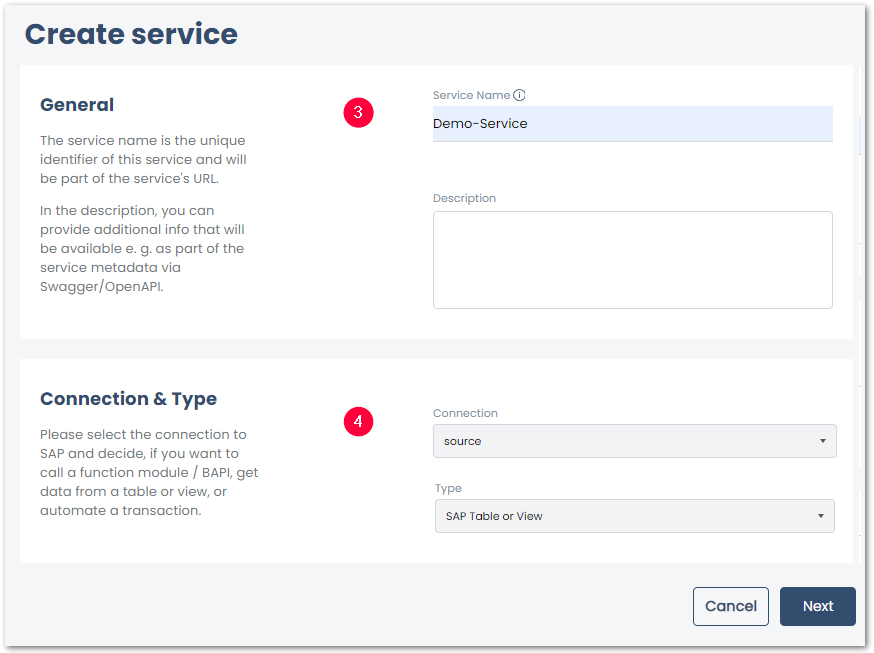
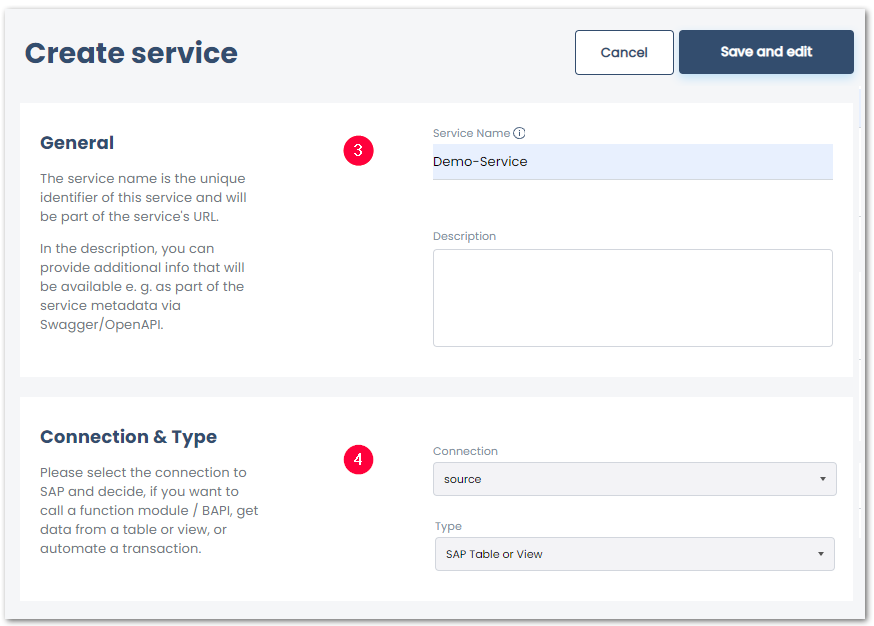
table, server, deutsche Version

diff --git a/content/_de/yunio/table-and-views.md b/content/_de/yunio/table-and-views.md
@@ -1,43 +1,49 @@
 ---
-ref: yunio-table-01
+ref: yunio-18
 layout: page
-title: Eine Table Extraktion definieren
-description: Tabellen und Felder
+title: SAP Tabelle oder Ansicht
+description: Table
 product: yunio
-parent: table
+parent: yunio
+childidentifier: table
 permalink: /:collection/:path
-weight: 1
+weight: 15
 lang: de_DE
-old_url: /Xtract-Universal-DE/default.aspx?pageid=where-bedingung
 progressstate: 5
 ---
-Dieser Abschnitt zeigt, wie Sie die *SAP Table and Views* Komponente verwenden.
 
-### Eine Tabelle finden
 
-1. Wenn Sie einen neuen *Service* anlegen, wählen Sie *SAP Table and Views* als Extraktionstyp aus und klciken Sie **[Next]**, um das *Search SAP Table or View* Menü zu öffnen.
-2. Geben Sie den Namen einer Tabelle oder Ansicht im Feld **Search by name** (1) ein oder suchen Sie nach einer Tabellenbeschreibung. Verwenden Sie Wildcards ( * ), falls notwenid. <br>
+Der folgende Abschnitt beschreibt die Anwendung der *SAP Table and Views* Komponente.
+
+### Eine SAP Tabelle oder Ansicht finden
+
+1. Wenn Sie einen neuen *Service* anlegen, wählen Sie *SAP Table and Views* als Extraktionstyp aus und klicken Sie **[Save and edit]**, um das *Search SAP Table or View* Menü zu öffnen.
+2. Geben Sie den Namen einer Tabelle oder Ansicht in das Feld **Search by name** (1) ein oder suchen Sie nach einer Tabellenbeschreibung. Verwenden Sie Wildcards ( * ), falls notwendig. <br>
 ![SAP-Table-or-Views](/img/content/yunio/Search-table-view.png){:class="img-responsive" width="750px"}
 3. Klicken Sie auf **[Search]** (2), um alle Suchergebnisse anzuzeigen.
-4. Wählen Sie eine Quelle aus (3). Das Hauptmenü *SAP Table and Views* öffnet sich automatisch.<br>
+4. Wählen Sie eine Quelldatei aus der Liste verfügbarer Suchergebnisse aus (3). 
+Die Extraktionseinstellungen für *SAP Tabelle und Ansichten* öffnet sich automatisch.<br>
 
 Das *SAP Table and Views* Menü ist in folgende Unterabschnitte unterteilt:
-- [Table or View](#tabelle-oder-ansicht) (4)
-- [Advanced Settings](#fortgeschrittene-einstellungen) (5)
-- [Output Columns](#ausgabespalten) (6)
-- [WHERE-Clause](#where-bedingung) (7)
 
-![SAP-Table-or-Views](/img/content/yunio/table-settings.png){:class="img-responsive" width="750px" }
+![yunIO-table](/img/content/yunio/table-settings.png){:class="img-responsive" width="750px"}
+
+- [Table or View](#tabelle-oder-ansicht) (4) zeigt den Namen und die Beschreibung der gewählten SAP Tabelle oder Ansicht an.
+- [Advanced Settings](#fortgeschrittene-einstellungen) (5) definieren, wie Daten aus SAp extrahiert werden.
+- [Output Columns](#ausgabespalten) (6) definieren, welche Spalten extrahiert werden.
+- [WHERE-Clause](#where-bedingung) (7) ermöglicht das Filtern von Daten.
 
 ### Table or View
+
 Der Name und die Beschreibung der gewählten Tabelle oder Ansicht wird im Abschnitt **Table or View** angezeigt.<br>
-Um eine andere Quelldatei auszuwählen, klicken Sie auf **Select** (4) in der oberen rechten Ecke des Abschnitts.
+Um eine andere Quelldatei auszuwählen, klicken Sie auf **Select** in der oberen rechten Ecke des Abschnitts.
 
 ### Advanced Settings
 
 ### Function Name
 Bezeichnet den Namen des verwendeten Funktionsbausteins für die Datenextraktion. Dieses Feld wird automatisch befüllt in Abhängigkeit davon, welche Funktionsbausteine auf Ihrem SAP System vorhanden sind.
-Folgende Funktionsbausteine können zur Extraktion von Tabellen verwendet werden: <br>
+F
+olgende Funktionsbausteine können zur Extraktion von Tabellen verwendet werden:
 
 - RFC_READ_TABLE (TAB512)
 - /BODS/RFC_READ_TABLE  (TAB2048)
@@ -50,7 +56,7 @@ Folgende Funktionsbausteine können zur Extraktion von Tabellen verwendet werden
 **Warnung! Duplikate in der Zielumgebung!** <br>
 Die SAP-Standardbausteine für Tabellenextraktion besitzen keine Pointer-Logik in Tabellenfeldern. 
 Das führt bei großen Tabellen zu schlechter Performance und ggf. zu Dublikaten.
-Wir empfehlen daher die Verwendung des Funktionsbausteins [Z_THEO_READ_TABLE](../sap-customizing) von Theobald Software. 
+Wir empfehlen daher die Verwendung des Funktionsbausteins [Z_THEO_READ_TABLE](./table/funktionsbaustein-fuer-table-extraktion) von Theobald Software. 
 
 Berücksichtigen Sie die notwendige [Berechtigung der SAP-Tabelle](https://kb.theobald-software.com/sap/authority-objects-sap-user-rights#table):
 ```
@@ -61,18 +67,18 @@ Gibt die maximale Anzahl der extrahierten Datensätze an. *0* extrahiert die kom
 
 #### Rows per Package
 Gibt die Anzahl der Datensätze an, die pro Datenpaket extrahiert werden.
-Optimale Werte können durch Ausprobieren gefunden werden. Der Standardwert ist 20000 Zeilen. 
-Die Paketgröße (Package Size) zwischen 15000 und 50000 ist sinnvoll für große Datenmengen.
-0 bedeutet, es findet keine Parkettierung statt. Keine Parkettierung kann bei Extraktionen großer Datenmengen zu einem RFC-Timeout führen.
+Optimale Werte können durch Ausprobieren gefunden werden. Der Standardwert ist 50000 Zeilen. <br>
+Eine Paketgröße (Package Size) zwischen 20000 und 50000 ist sinnvoll für große Datenmengen.
+0 bedeutet, es findet keine Pakettierung statt. Keine Pakettierung kann bei Extraktionen großer Datenmengen zu einem RFC-Timeout führen.
 
 {: .box-warning }
 **Warnung! RFC_ERROR_SYSTEM_FAILURE - No more storage space available for extending an internal table:**
 Um einen Speicherüberlauf auf dem SAP-Quellsystem und einen großen Overhead zu vermeiden, wählen Sie eine für Ihre Speichergröße angemessene Paketgröße.
 
 #### Run in background
-Durch das Ankreuzen der Checkbox "Extract data in background" wird die Tabellenextraktion als Hintergrund-Job in SAP ausgeführt. 
+Durch das Ankreuzen der Checkbox wird die Tabellenextraktion als Hintergrund-Job in SAP ausgeführt. 
 Diese Einstellung ist optional und wird in Kombination mit dem Baustein Z_THEO_READ_TABLE ab Version 2.0 unterstützt.
-Aktivieren Sie diese Einstellung für langlaufende Extraktionen mit sehr großen Datenmengen, die im Vordergrundmodus in einen Timeout-Fehler ("Time limit exceeded") laufen könnten. <br>
+Aktivieren Sie diese Einstellung für zeitintensive Extraktionen mit großen Datenmengen, die im Vordergrundmodus in einen Timeout-Fehler ("Time limit exceeded") laufen können. <br>
 
 {: .box-tip }
 **Tipp:** Die Extraktionsjobs befinden sich im SAP JobLog (**SM37**) unter dem JobName *theo_read_table*.
@@ -84,7 +90,7 @@ Standardmäßig sind alle Spalten für die Tabellenextraktion ausgewählt.
 Deaktivieren Sie die Felder, die Sie nicht extrahieren möchten.
 
 ### WHERE-Clause
-Sie können eine WHERE-Bedingung verwenden, um Ihre Daten zu filtern.
+Verwenden Sie eine WHERE-Bedingung, um Ihre Daten zu filtern.
 
 #### Syntaxregeln
 
@@ -95,7 +101,6 @@ Sie können eine WHERE-Bedingung verwenden, um Ihre Daten zu filtern.
 - Setzten Sie die Fließkommazahlen in einfache Anführungszeichen: <br>
 **Korrekt:** *KMENG > '10.3'* <br>
 **Falsch** *KMENG > 10.3*
-
 
 {: .box-note }
 **Hinweis:** Die WHERE-Bedingung benötigt keinen Zeilenumbruch (Return-Taste).
@@ -113,7 +118,7 @@ Sie können eine WHERE-Bedingung verwenden, um Ihre Daten zu filtern.
 |>, GT |  Wahr, wenn der Inhalt von operand1 größer als der Inhalt von operand2 ist|
 |<=, LE | Wahr, wenn der Inhalt von operand1 kleiner oder gleich dem Inhalt von operand2 ist|
 |>=, GE |  Wahr, wenn der Inhalt von operand1 größer oder gleich dem Inhalt von operand2 ist|
-| LIKE | Wahr, wenn der Wert des Operanden operand1 mit dem Muster im Operanden operand2 übereinstimmt (nicht übereinstimmt). |
-| BETWEEN | Wahr, wenn der Inhalt des Operanden operand (nicht) zwischen den Werten der Operanden operand1 und operand2 liegt. |
+| (NOT) LIKE | Wahr, wenn der Wert des Operanden operand1 mit dem Muster im Operanden operand2 übereinstimmt (nicht übereinstimmt). |
+| (NOT) BETWEEN | Wahr, wenn der Inhalt des Operanden operand (nicht) zwischen den Werten der Operanden operand1 und operand2 liegt. |
 
 Weitere Informationen über die OpenSQL-Syntax erhalten Sie auf der [SAP Helpseite - Select WHERE](https://help.sap.com/doc/abapdocu_752_index_htm/7.52/de-DE/abapwhere.htm?file=abapwhere.htm). 

diff --git a/content/_en/yunio/table-and-views.md b/content/_en/yunio/table-and-views.md
@@ -21,7 +21,8 @@ This section shows how to use the *SAP Table and Views* component.
 2. Enter the name of the Table or View to be extracted in the field **Search by name** (1) or search for description of a Table. Use wildcards ( * ) if needed.
 ![SAP-Table-or-Views](/img/content/yunio/Search-table-view.png){:class="img-responsive" width="750px"}
 3. Click **[Search]** (2) to display the search results.
-4. Select a source file from the list of available search results (3). The extraction settings of the *SAP Table and Views* open automatically.<br>
+4. Select a source file from the list of available search results (3). 
+The extraction settings of *SAP Table and Views* open automatically.<br>
 
 The *SAP Table and Views* settings consist of the following subsections:
 
@@ -29,7 +30,7 @@ The *SAP Table and Views* settings consist of the following subsections:
 
 - [Table or View](#table-or-view) (4) displays the name and description of the selected SAP Table or View.
 - [Advanced Settings](#advanced-settings) (5) define how data is extract from SAP.
-- [Output Columns](#output-columns) (6) define which columns are added to the result set.
+- [Output Columns](#output-columns) (6) define which columns are extracted.
 - [WHERE-Clause](#where-clause) (7) offers an optional data filter.
 
 ### Table or View
@@ -56,7 +57,7 @@ The following function modules can be used to extract tables:
 **Warning! Duplicates in the target environment!**<br>
 The SAP standard modules for table extraction do not have pointers for table fields. 
 In larger tables this may cause low performance and duplicates in the target environment. 
-Use the function module from Theobald Software Z_THEO_READ_TABLE to ensure smooth extractions.
+Use the function module [Z_THEO_READ_TABLE](./table/custom-function-module-for-table-extraction) from Theobald Software to ensure smooth extractions.
 
 Note the necessary [authorization for SAP tables](https://kb.theobald-software.com/sap/authority-objects-sap-user-rights#table):
 ```
@@ -77,7 +78,7 @@ To avoid a memory overflow on the SAP source system and to avoid huge overheads,
 
 #### Run in background
 If this checkbox is checked, the table extraction is executed as a background job in SAP. 
-Extract data in background job setting is optional and is supported in combination with function module Z_THEO_READ_TABLE as of version 2.0. 
+This setting is optional and is supported in combination with function module Z_THEO_READ_TABLE as of version 2.0. 
 Activate the setting **Run in background** for long-running extractions with a large amounts of data that may run into a timeout error (“Time limit exceeded”), when using the foreground mode.
 
 {: .box-tip }
@@ -120,4 +121,4 @@ Use a WHERE clause to filter your data.
 | (NOT) LIKE | True if the value of the operand operand1 matches (does not match) the pattern in the operand operand2.|
 | (NOT) BETWEEN | True if the content of the operand operand (not) lies between the values of the operands operand1 and operand2. |
 
-Get more details on the OpenSQL syntax on the [SAP help site - Select WHERE](https://help.sap.com/doc/abapdocu_752_index_htm/7.52/en-US/abapwhere.htm?file=abapwhere.htm) 
+For more information on the OpenSQL syntax see [SAP help site - Select WHERE](https://help.sap.com/doc/abapdocu_752_index_htm/7.52/en-US/abapwhere.htm?file=abapwhere.htm). 

diff --git a/content/_de/yunio/erste-schritte.md b/content/_de/yunio/erste-schritte.md
@@ -50,21 +50,18 @@ Um einen bereits vorhandenen Service zu bearbeiten, klicken Sie auf den Namen de
 ![yunIO-Services](/img/content/yunio/yunio-services.png){:class="img-responsive" }
 2. Geben Sie unter *Endpoint* einen Namen für den Service ein und wählen Sie Ihre SAP-Verbindung aus (3).
 ![yunIO-new-service](/img/content/yunio/create-table.png){:class="img-responsive" width="750px"}
-3. Wählen Sie einen Extraktionstyp (4). yunIO bietet hierfür zwei Möglichkeiten: *SAP Tables or Views* oder *Function Modules*.
-4. Optional: Geben Sie unter *Description* eine kurze Beschreibung des Services ein (5). Klicken Sie auf **[Next]**.
-5. Je nach gewähltem Extraktionstyp geben Sie den Namen oder die Beschreibung der zu extrahierenden Tabelle/Ansicht oder des zu extrahierenden Funktionsmoduls/BAPIs ein (6). 
-Verwenden Sie Wildcards ( * ), falls nötig. <br>
-![yunIO-search](/img/content/yunio/search-table.png){:class="img-responsive" width="750px"}
-6. Klicken Sie auf **[Search]**, um die Suchergebnisse anzuzeigen (7). 
-7. Wählen Sie eine Quelldatei aus (8). Das Menü für die Extraktionseinstellungen öffnet sich automatisch, siehe [SAP Tabelle oder Ansicht](./xtract-is-table) oder [Funktionsbausteine](./xtract-is-bapi).
-8. Klicken Sie auf **[Save]**, um den Service zu speichern. <br>
+3. Wählen Sie einen Extraktionstyp (4). yunIO bietet folgende Optionen: *SAP Tables or Views*, *Function Modules* und *Transactions*.
+4. Optional: Geben Sie unter Description eine kurze Beschreibung des Services ein (5).
+5. Klicken Sie auf **[Save and edit]**.<br>
+Richten Sie den Service ein, siehe [SAP Tabelle oder Ansicht](./table-and-views), [Funktionsbausteine / BAPI](./bapis-and-function-modules) oder [Transaktionen](./transactions).
+
 
 ### Einen Service ausführen
 
 Webdienste, die mit yunIO erstellt werden, sind in alle Cloud Anwendungen integrierbar, die
-REST API/Swagger (OpenAPI) unterstützen, z.B. Power Automate, Nintex, Firestart, Webcon uvm.
+REST API/Swagger (OpenAPI) unterstützen, z.B. Power Automate, Nintex, uvm.
 
-Um einen Service zu testen, können SIe die URL des Service Endpoints unter **Service** (1) triggern.
+Um einen Service zu testen, können Sie die URL des Service Endpoints unter **Service** (1) triggern.
 Der Service wird dann direkt im Browser ausgeführt.<br>
 Um einen yunIO Web-Service in ein Prozessautomatisierungstool zu integrieren, das Swagger/OpenAPI unterstützt, kopieren Sie den Code oder laden Sie die Definition des Services herunter (2).
 
@@ -72,6 +69,6 @@ Um einen yunIO Web-Service in ein Prozessautomatisierungstool zu integrieren, da
 
 *****
 #### Weiterführende Links
-- [SAP Table or View](./table)
-- [Function Module](./bapi)
-
+- [SAP Tabelle oder Ansicht](./table-and-views)
+- [Funktionsbaustein / BAPI](./bapis-and-function-modules)
+- [Transaktionen](./transactions)

diff --git a/content/_de/yunio/server-settings.md b/content/_de/yunio/server-settings.md
@@ -25,24 +25,30 @@ Speichern Sie Änderungen der Einstellungen mit **[Save]**.
 
 Die Sicherheitsmethode der Transportverschlüsselung verhindert das Ausspionieren oder Manipulieren der Daten (z.B. SAP-Credentials), die zwischen dem Designer und dem Server ausgetauscht werden.
 Wenn *Transport Layer Security (TLS)* aktiviert ist, wird auf den Webserver über eine https-Verbindung zugegriffen.
-Dafür muss das X.509 Zertifikat installiert sein. 
-Für mehr Informationwn zu TLS, siehe [Microsoft: TLS-Protokoll](https://docs.microsoft.com/de-de/windows/win32/secauthn/transport-layer-security-protocol).
+Dafür muss ein X.509 Zertifikat installiert sein. 
+Für mehr Informationen zu TLS, siehe [Microsoft: TLS-Protokoll](https://docs.microsoft.com/de-de/windows/win32/secauthn/transport-layer-security-protocol).
 
 
 #### Pick Certificate
 Klicken Sie auf **[Pick Certificate]** und wählen Sie ein X.509 Zertifikat aus der Liste verfügbarer Zertifikate aus.
-Falls das Zertifikat nicht in der Liste oder im Windows Certificate Store aufgelistet ist, [installieren Sie das X.509 Zertifikat](./x.509-zertifikat-installieren).
+Falls das Zertifikat nicht in der Liste oder im Windows Certificate Store aufgelistet ist, installieren Sie das X.509 Zertifikat.
 
 #### TLS enabled
 Wenn ein Zertifikat gewählt wurde, ist die Option **TLS enabled** verfügbar.<br>
 Über **TLS enabled** aktivieren oder deaktivieren Sie die Verwendung von Transportverschlüsselung für den Webserver.
 
-### CORS List
+### Allowed Origins (CORS)
 
-Geben Sie eine URL ein, die Sie zur Liste der ...
+{: .box-warning }
+**Warnung! Cross-Origin Request Blocked** Wenn Sie auf einen CORS-Fehler stoßen, ist die URL Ihres Origins nicht authorisiert auf yunIO zuzugreifen.
+Fügen Sie die URL Ihres Origins der Liste authorisierter URL hinzu.
+
+Geben Sie URLs ein, die über Cross-Origin-Requests auf yunIO zugreifen dürfen.<br>
+Beispiel: Um einem Tool wie Swagger Inspector zu ermöglichen, Dienste aus yunIO zu laden und zu testen, muss die URL `https://inspector.swagger.io` hinterlegt sein.
 
 {: .box-note }
 **Hinweis:** Während der Testphase können Sie ( * ) verwenden, um alle URLs zuzulassen.
+Wenn Sie yunIO zum ersten Mal installieren, ist diese Einstellung automatisch gesetzt.
 
 ### Services
 

diff --git a/content/_en/yunio/getting-started.md b/content/_en/yunio/getting-started.md
@@ -51,12 +51,9 @@ To edit an existing service, click on the name of the service you want to edit (
 2. Enter a name for the service and choose an existing SAP connection under *General* (3).<br>
 ![yunIO-new-service](/img/content/yunio/create-table.png){:class="img-responsive" width="750px"}
 3. Choose an **Extraction Type** (4). yunIO offers the following options: *SAP Tables or Views*,*Function Modules* or *Transaction*. 
-5. Click **[Save and edit]**. You are automatically directed to the search window of the selected extraction type.
-6. Depending on the extraction type either enter the name or description of a Table/View or the name of a Function Module/BAPI to be extracted (5). 
-Use wildcards ( * ) if needed.<br>
-![yunIO-search](/img/content/yunio/search-table.png){:class="img-responsive" width="750px"}
-7. Click **[Search]** to display the search results (6). 
-8. Select a data source from the list of available search results (7). The extraction settings open automatically, see [Table Extraction](#table-extraction) or [Function Modules/BAPIs](./bapi).
+4. Optional: Add a short description for the service (5).
+5. Click **[Save and edit]**. <br>
+To set up the service, see [SAP Table or View](./table-and-views), [Function Modules / BAPIs](./bapi) or [Transactions](./transactions).
 
 
 ### How to Use a Service
@@ -70,7 +67,6 @@ To integrate a yunIO web service into a tool that supports Swagger/OpenAPI, copy
 
 *****
 #### Related Links
-- [SAP Table or Views](./table)
-- [Function Modules/BAPIs](./bapi)
-
-
+- [SAP Table or Views](./table-and-views)
+- [Function Module / BAPI](./bapi)
+- [Transactions](./bapi)

diff --git a/content/_en/yunio/server-settings.md b/content/_en/yunio/server-settings.md
@@ -14,7 +14,7 @@ old_url: /Xtract-Universal-DE/default.aspx?pageid=server
  
 
 The follwing section contains an overview of the yunIO server settings in the **Settings** menu. <br>
-To save any changes made in the **settings** menu, click **[Save]**.
+To save any changes made in the **Settings** menu, click **[Save]**.
 
 {: .box-note }
 **Note:** The changes are activated when restarting the yunIO server.
@@ -31,7 +31,7 @@ For more information on TLS, see [Microsoft: Transport Layer Security Protocol](
 
 #### Pick Certificate
 Click **[Pick Certificate]** and select an X.509 certificate from the list of available certificates.<br>
-If the certificate is not listed in the menu or in the Windows certificate store, [install the X.509 certificate](./install-x.509-Certificate).
+If the certificate is not listed in the menu or in the Windows certificate store, install the X.509 certificate.
 
 #### TLS enabled
 Once a certificate is selected, the option **TLS enabled** is available.<br>

diff --git a/content/_de/yunio/index.md b/content/_de/yunio/index.md
@@ -31,7 +31,7 @@ Eine Azure Relay-Registrierung kann als sicherer Gateway verwendet werden, um da
 
 yunIO bietet drei Extraktionstypen, um eine Reihe von Anforderungen der SAP-Datenextraktion abzudecken.
 
-- [**SAP Table und Views**](./table) extrahiert Daten aus SAP-Tabellen und Views; ermöglicht das Zusammenführen mehrerer Tabellen auf der SAP-Seite.
-- [**Funktionsbausteine / BAPIs**](./bapis-und-funktionsbausteine) greift auf BAPIs und RFC-Funktionsbausteine zu.
+- [**SAP Table und Views**](./table-and-views) extrahiert Daten aus SAP-Tabellen und Views; ermöglicht das Zusammenführen mehrerer Tabellen auf der SAP-Seite.
+- [**Funktionsbausteine / BAPIs**](./bapis-and-function-modules) greift auf BAPIs und RFC-Funktionsbausteine zu.
 - [**Transaktionen**](./transactions) führt SAP-Transaktionen direkt aus yunIO aus.
 

diff --git a/content/_en/yunio/index.md b/content/_en/yunio/index.md
@@ -31,7 +31,7 @@ An Azure Relay registration can be used as a secure gateway to connect the local
 
 yunIO offers two extraction types to cover a range of demands of SAP data extraction.
 
-- [**SAP Table or View**](./table) extracts data from SAP tables and views; allows joining several tables on the SAP side.
+- [**SAP Table or View**](./table-and-views) extracts data from SAP tables and views; allows joining several tables on the SAP side.
 - [**Function Module / BAPI**](./bapis-and-function-modules) accesses BAPIs and RFC function modules.
 - [**Transaction**](./transactions) executes SAP transactions from yunIO to your SAP system.
 

diff --git a/content/_de/yunio/bapis-and-function-modules.md b/content/_de/yunio/bapis-and-function-modules.md
@@ -1,0 +1,13 @@
+---
+ref: yunio-10
+layout: page
+title: Funktionsbausteine
+description: BAPIs und Funktionsbausteine
+product: yunio
+parent: yunio
+childidentifier: bapis-und-funktionsbausteine
+permalink: /:collection/:path
+weight: 18
+lang: de_DE
+old_url: /Xtract-Universal-DE/default.aspx?pageid=bapis-und-funktionsbausteine
+---

diff --git a/content/_de/yunio/transactions.md b/content/_de/yunio/transactions.md
@@ -1,8 +1,8 @@
 ---
 ref: yunio-transaction-01
 layout: page
-title: Transactions
-description: Transactions
+title: Transaktionen
+description: Transaktionen
 product: yunio
 parent: yunio
 permalink: /:collection/:path

diff --git a/content/_de/yunio/integration.md b/content/_de/yunio/integration.md
@@ -1,7 +1,7 @@
 ---
 ref: yunio-05
 layout: page
-title: Integration
+title: Integrationsszenarien
 description: Integration
 product: yunio
 parent: yunio
